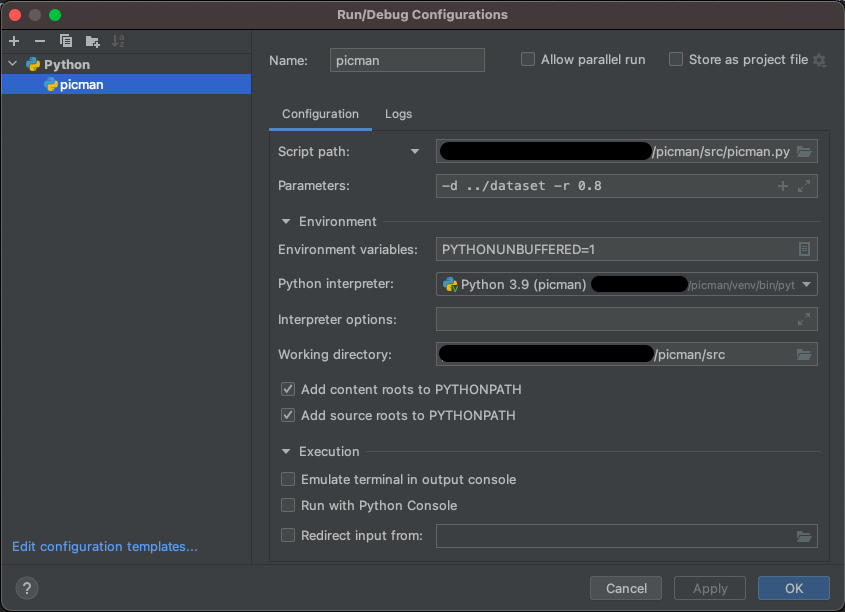
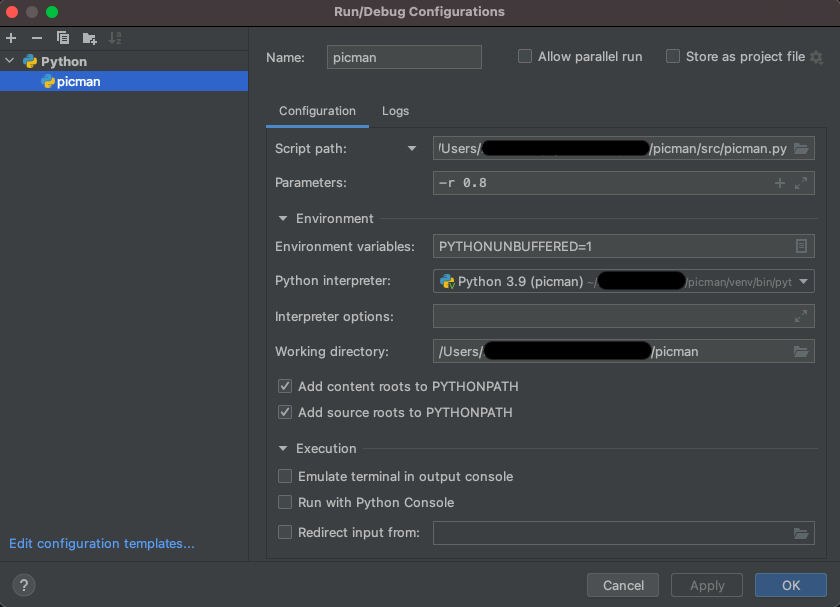
fix: README

diff --git a/README.md b/README.md
@@ -28,25 +28,26 @@ If any problem occurs, please, open an issue or email me.
 That's all!
 
 ### Run Picman
-You can run Picman from PyCharm, or via Terminal.
-
-In both cases, note that the working directory is `../picman/src` and the script path is `../picman/src/picman.py`. 
+You can run Picman from PyCharm, or via Terminal. The script path is `../picman/src/picman.py`.\
+Note that Picman will create the dataset folder in your current working directory.
 
 ###### Run via PyCharm
-You have to configure the working directory, the script path, and the parameters, as shown [here](doc/img/pycharm-config.png).\
+You have to create a run configuration before running, as shown [here](doc/img/pycharm-config.png). 
+In detail, you have to set your working directory, for example `abs_path_to/picman/`,
+and the script path `abs_path_to/picman/src/picman.py`.\
 Then run.
 
 ###### Run via Terminal (the hard way)
-You have to export the Picman root directory `../picman/` in `PYTHONPATH`.\
+You have to export the Picman absolute path `abs_path_to/picman/src/` in `PYTHONPATH`.\
 Then run.
 ```shell
 (venv)$ export PYTHONPATH=$PYTHONPATH:my_path_to_picman
-(venv)$ cd picman/src
-(venv)/picman/src$ python -d picman.py
+(venv)$ cd picman
+(venv)/picman$ python src/picman.py -r 0.8
 ```
 
-Note that the parameter `-d ../dataset` avoids Picman creating the dataset folder inside the `src` folder.
-See the customization parameters below.
+In the examples above, the parameter `-r 0.8` sets a ratio of the training set over the whole dataset of about 80%.\
+See below for the detailed list of customization parameters.
 
 ### Custom parameters 
 You can specify several parameters to customize Picman, as described in the following.
@@ -66,7 +67,7 @@ Please read our [contributing instructions](CONTRIBUTING.md) and our [code of co
 for details on the process of submitting requests to us.
 
 # Versioning
-We use [SemVer](https://semver.org/) for versioning. For the versions available, see the tags on this repository.
+We use [SemVer](https://semver.org/) for versioning. For the versions available, see the releases on this repository.
 
 # License
 This project is licensed under the MIT License - see the [LICENSE](LICENSE) for details.
